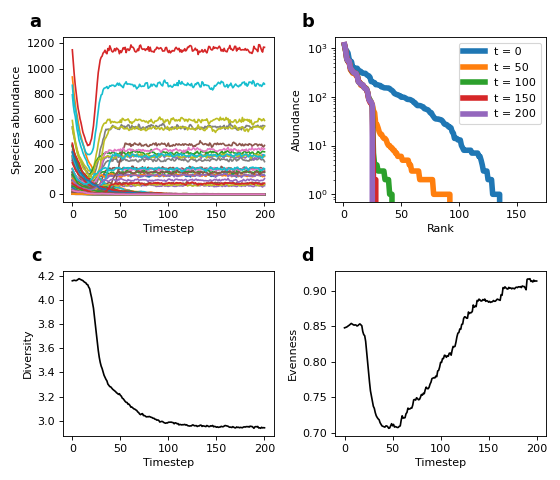
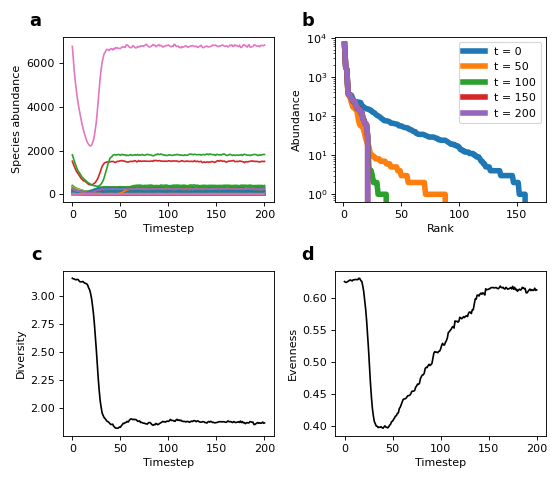
RAC and extinction debt
changed RAC function

created extinction debt function

diff --git a/cwr_model.py b/cwr_model.py
@@ -104,10 +104,12 @@ class community():
         self.J_t[stepnumber] = J
     
     def simulate_ddb(self):
+        print("Total community size at t=0: ", np.sum(self.N_t[:,0]))
         for i, species in enumerate(list(self.species_vector)):
             self.species_vector[i] = self.N_t[i,0]*[self.b0_res]
         for i in range(1, self.timesteps+1):
             self.step_ddb(i)
+        print("Total community size at the end: ", np.sum(self.N_t[:,-1]))
             
     def plot(self, save=False):
         plt.figure()
@@ -120,18 +122,21 @@ class community():
         if save:
             plt.savefig("single_run/All_N_t.png")
     
-    def RAC(self, t, save=False):
-        plt.figure()
+    def RAC(self, times, panel, save=False):
+        fig = plt.figure()
+        ax = fig.add_subplot(1,1,1)
         rank = np.arange(1, len(self.K)+1)
-        abundance = self.N_t[:,t]
-        plt.plot(rank, sorted(abundance, reverse=True), 'r', linewidth=5)
-        plt.title("Rank abundance Curve, t=" + str(t))
-        plt.xlabel("Rank")
-        plt.ylabel("Abundance")
-        plt.yscale("log")
+        ax.text(-0.1, 1.15, panel, transform=ax.transAxes, fontsize=16, fontweight='bold', va='top', ha='right')
+        for t in times:
+            abundance = self.N_t[:,t]
+            ax.plot(rank, sorted(abundance, reverse=True), linewidth=5, label="t = {0}".format(t))
+            ax.set_xlabel("Rank")
+            ax.set_ylabel("Abundance")
+            ax.set_yscale("log")
+        ax.legend()
         #Fit beta distribution here
         if save:
-            plt.savefig("single_run/rac{0}.png".format(t))
+            plt.savefig("single_run/rac.png")
         
     def species_abundance(self, t, save=False):
         ###NEEED TO REWRITE############
@@ -233,6 +238,19 @@ class community():
         plt.ylabel("Number of extinctions")
         if save:
             plt.savefig("single_run/extinction_debt.png")
+            
+    def extinction_debt(self, title, panel, col, save=False):
+        fig=plt.figure()
+        ax = fig.add_subplot(1,1,1)
+        ax.text(-0.1, 1.15, panel, transform=ax.transAxes, fontsize=16, fontweight='bold', va='top', ha='right')
+        ax.set_title(title)
+        ext_times = list(self.extinction_time.values())
+        ext_times = list(filter(lambda a: a != 0, ext_times))
+        ax.hist(ext_times, color=col, bins=np.arange(0, self.timesteps, 5))
+        plt.xlabel("Time")
+        plt.ylabel("Number of extinctions")
+        if save:
+            plt.savefig("single_run/extinction_debt_{0}.png".format(title))
         
 #    def compare_rankabundance(self):
 #        N_0 = []

diff --git a/run.py b/run.py
@@ -14,10 +14,10 @@ from mpl_toolkits.mplot3d import Axes3D
 import matplotlib as mpl
 
 
-SINGLE_RUN = 0
+SINGLE_RUN = 1
 BETA_DISTR = 0
 SURVIVALPROB = 0
-P_SURFACE_PLOT = 1
+P_SURFACE_PLOT = 0
 
 
 def F(n, Q):
@@ -66,10 +66,10 @@ if SINGLE_RUN == 1:
 #    N_vec = K_global*np.ones(num_species, dtype=int) 
     
 #    Lognormal
-#    N_vec = np.random.lognormal(4.15, 2, num_species) #5, 2
+    N_vec = np.random.lognormal(3, 2, num_species) #5, 2
     
     #Beta
-    N_vec = K_global*np.random.beta(0.2498, 41.4668, num_species)
+    # N_vec = K_global*np.random.beta(0.2498, 41.4668, num_species)
     
     #Turn N_vec into K_vec
     K_vec = b0_m*N_vec/(b0_m - d_all)
@@ -82,12 +82,6 @@ if SINGLE_RUN == 1:
 #     c.plot_diversity(save=True)
 #     c.mutation_extinction(save=True)
 # #    c.compare_rankabundance()
-#     c.RAC(0, save=True)
-#     c.RAC(50, save=True)
-#     c.RAC(100, save=True)
-#     c.RAC(150, save=True)
-#     c.RAC(200, save=True)
-# #    c.RAC(250)
 #     c.species_abundance(0, save=True)
 #     c.species_abundance(50, save=True)
 #     c.species_abundance(100, save=True)
